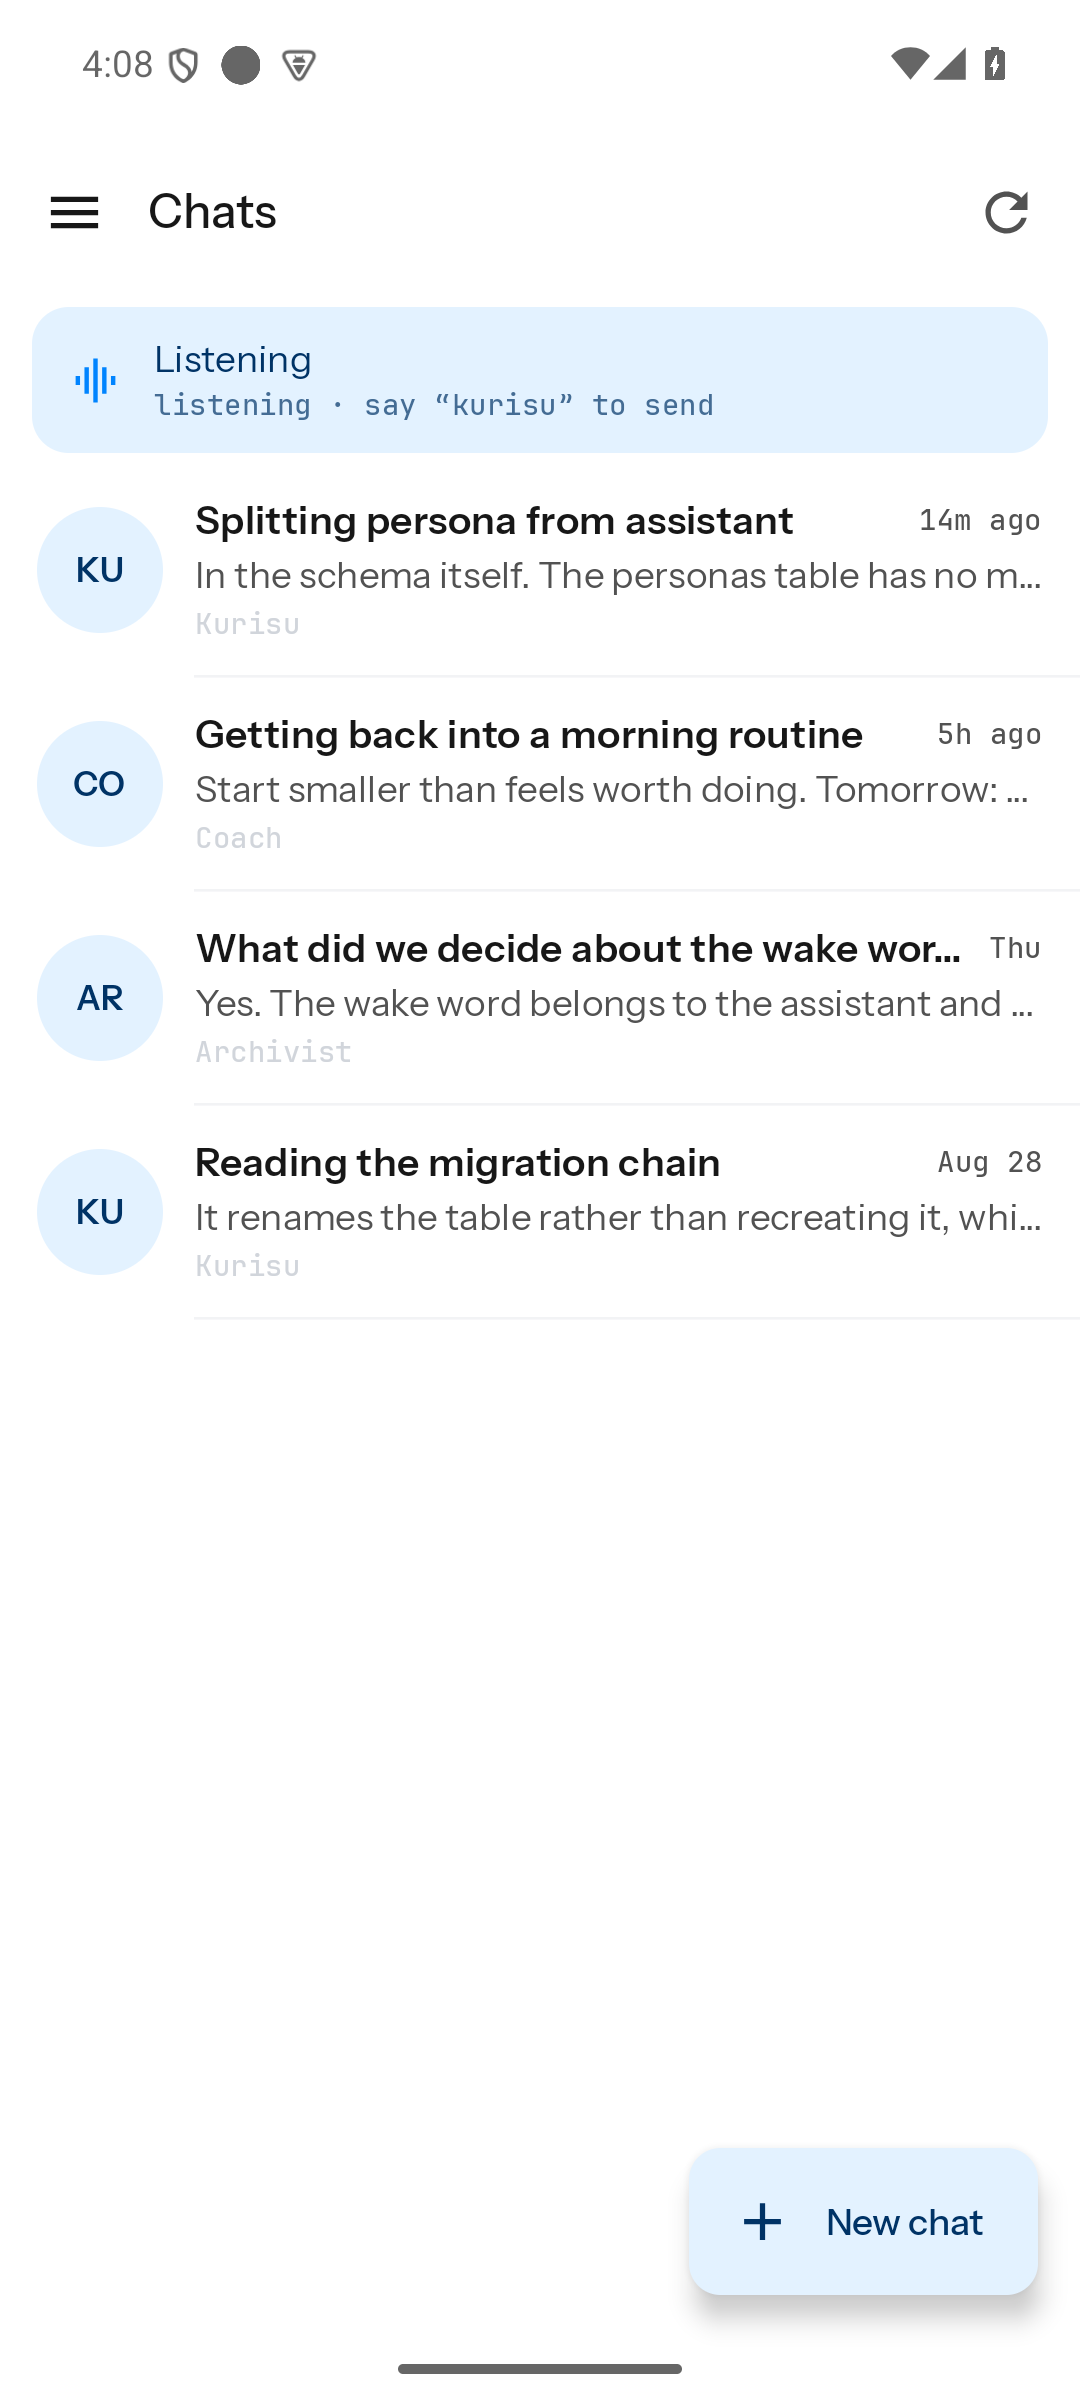
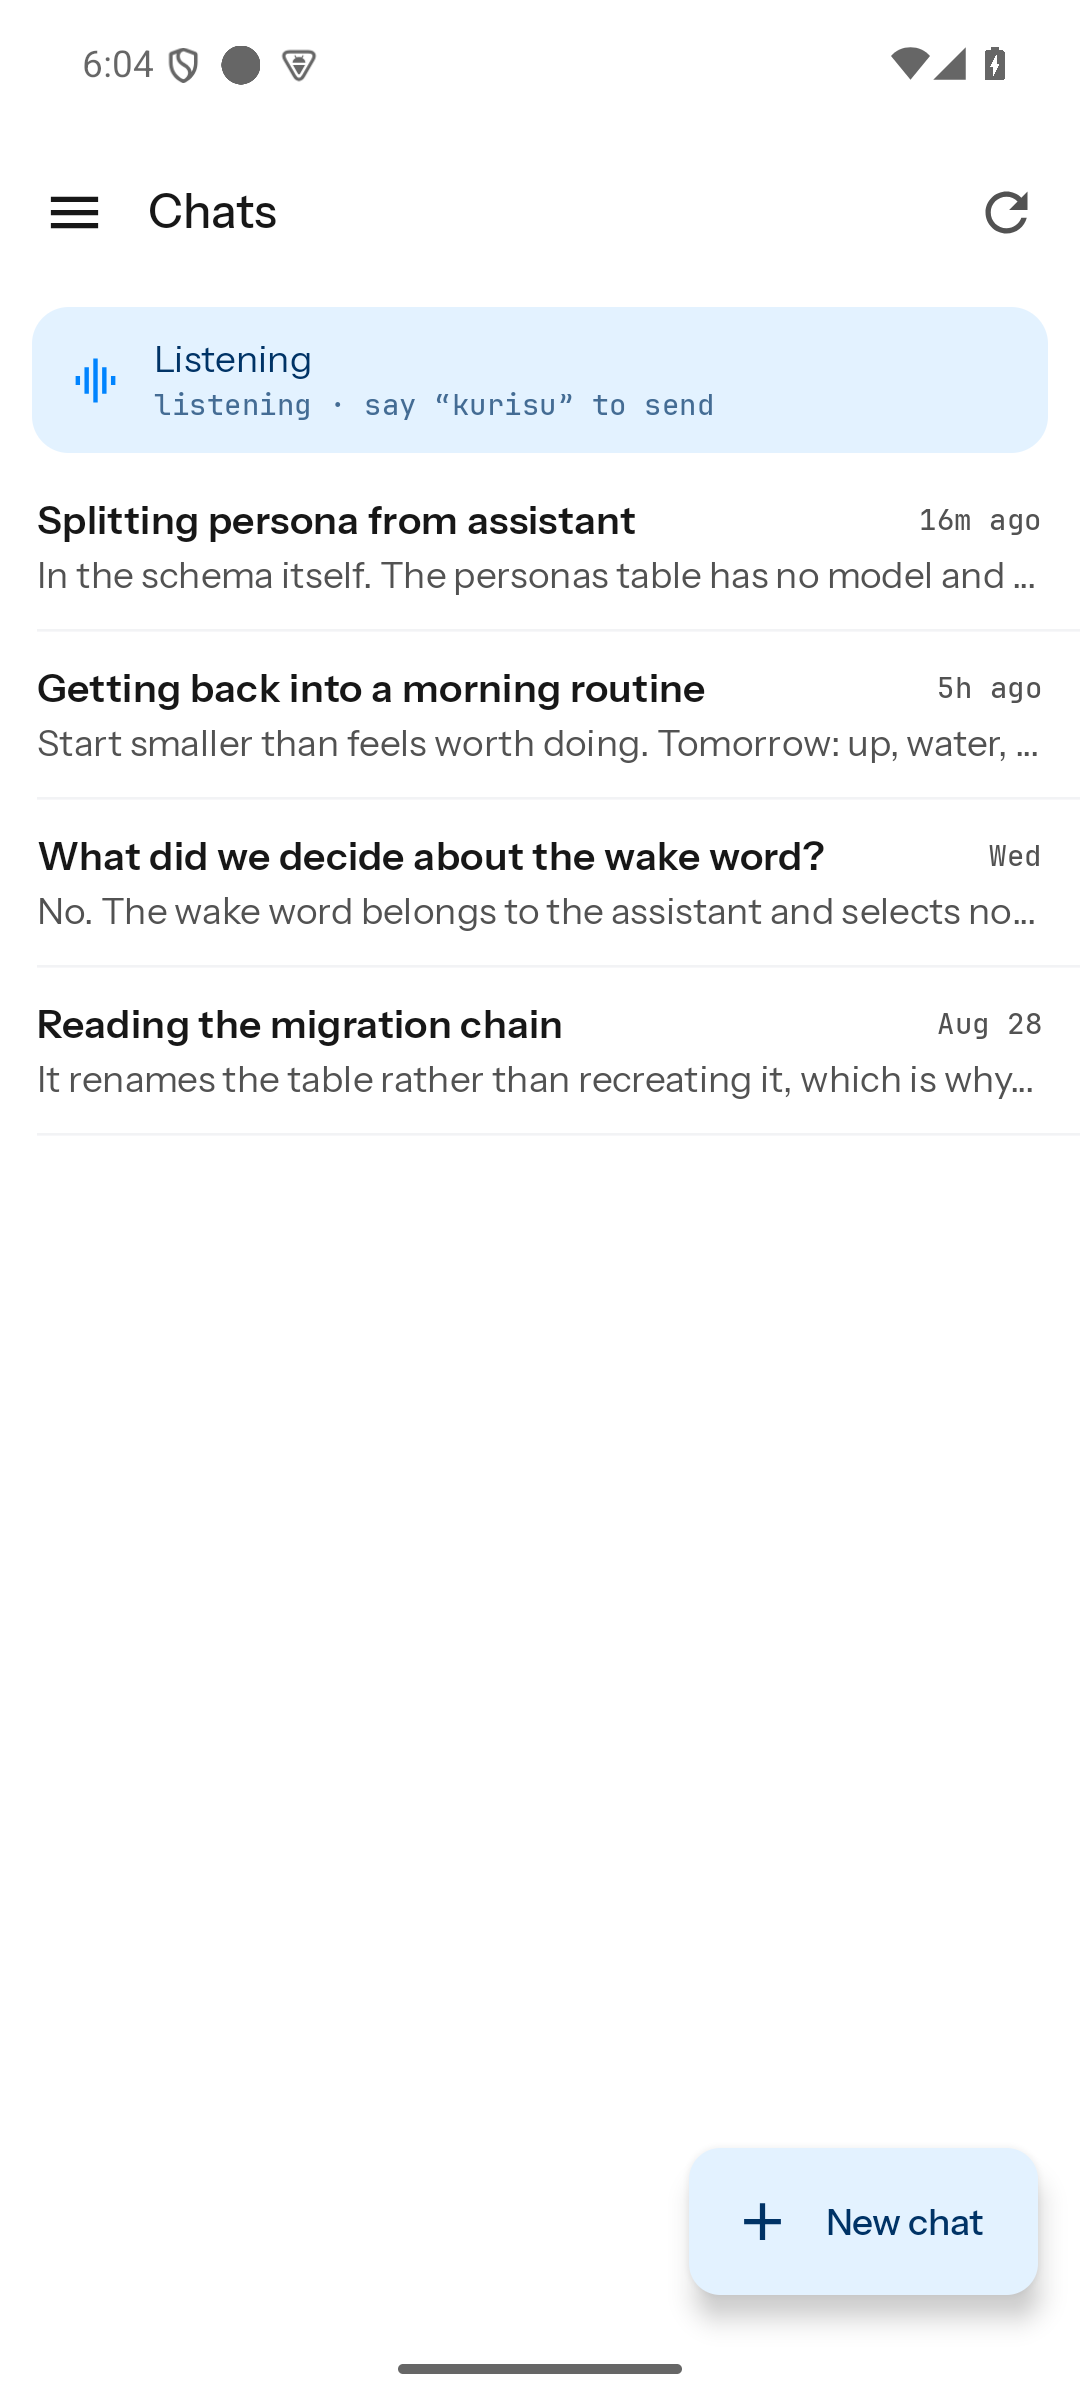
feat(mock): seed a conversation list, and retake the Chats screenshot
`screens.md` said the Chats picture is regenerated by pointing a client at the
standalone mock and sending a message. It never could be. The mock starts with
no conversations, and one message gives one row titled "Mock Conversation" whose
preview is the same "Hello from mock backend." every other row would carry — so
the four-row picture in the repo came from something that was never committed,
and there was no way to take it again after the row layout changed.

`MockBackendOptions.conversations` seeds finished conversations: a title, who
answered, a transcript, and how long ago the last message landed. They are built
through the same `createConversation` the chat path uses and pushed with the same
message fields, so `GET /conversations` and `GET /conversations/{id}` cannot tell
a seeded conversation from one that was chatted into — the user turns carry no
speaker, the assistant turns carry the persona, and the age is the seeded one
rather than the moment the process started, which is the whole point for a list
that orders and labels by recency.

`--scenario chats` is that list: four invented conversations aged minutes, hours,
days and over a week, so every branch of a relative-time label is exercised.
`cli.test.ts` already starts every scenario once, so a broken seed fails there.

The Chats screenshot is retaken against it. The regeneration instructions now
name the scenario, and their `cd clients/desktop` is corrected to the workspace
[…]

diff --git a/clients/apps/desktop/tests/mock/server.test.ts b/clients/apps/desktop/tests/mock/server.test.ts
@@ -258,6 +258,102 @@ describe('mock backend: conversations', () => {
   });
 });
 
+describe('mock backend: seeded conversations', () => {
+  /**
+   * A client that draws a list needs a list before anyone has chatted, and the
+   * documented way to regenerate the Chats screenshot could only ever produce
+   * one row (#194). A seed has to be indistinguishable from a conversation that
+   * was chatted into, or the picture documents a shape the app never serves.
+   */
+
+  let seeded: MockBackend;
+
+  beforeEach(async () => {
+    await mock.stop();
+    seeded = new MockBackend({
+      personas: [
+        { id: 1, name: 'Kurisu' },
+        { id: 2, name: 'Amadeus' },
+      ],
+      conversations: [
+        {
+          title: 'Older, and answered by the second persona',
+          persona: 'Amadeus',
+          agoMinutes: 3 * 24 * 60,
+          messages: [
+            { role: 'user', content: 'Ask something' },
+            { role: 'assistant', content: 'Answer something' },
+          ],
+        },
+        {
+          title: 'Newest',
+          persona: 'Kurisu',
+          agoMinutes: 5,
+          messages: [
+            { role: 'user', content: 'Recent question' },
+            { role: 'assistant', content: 'Recent answer' },
+          ],
+        },
+      ],
+    });
+    await seeded.start();
+    mock = seeded;
+  });
+
+  const seededGet = async (path: string) => {
+    const res = await fetch(`${seeded.url}${path}`);
+    return { status: res.status, body: await res.json() };
+  };
+
+  it('lists a seeded conversation exactly as it lists a chatted one', async () => {
+    const { body } = await seededGet('/conversations');
+    expect(body).toHaveLength(2);
+    expect(body[0]).toMatchObject({
+      title: 'Newest',
+      persona_id: 1,
+      message_count: 2,
+    });
+    expect(body[0].last_message).toMatchObject({
+      content: 'Recent answer',
+      role: 'assistant',
+    });
+  });
+
+  it('orders by the seeded age, newest first', async () => {
+    const { body } = await seededGet('/conversations');
+    expect(body.map((c: any) => c.title)).toEqual([
+      'Newest',
+      'Older, and answered by the second persona',
+    ]);
+
+    // The age is the point: a list that labels rows by recency has nothing to
+    // show if every seed is stamped with the moment the process started.
+    const ageMinutes = (iso: string) => (Date.now() - Date.parse(iso)) / 60_000;
+    expect(ageMinutes(body[0].last_message.created_at)).toBeGreaterThan(4);
+    expect(ageMinutes(body[0].last_message.created_at)).toBeLessThan(7);
+    expect(ageMinutes(body[1].updated_at)).toBeGreaterThan(3 * 24 * 60 - 2);
+  });
+
+  it('stamps the persona on the assistant turns only', async () => {
+    // A user message carries no speaker at all — the key is absent, not null,
+    // exactly as it is on a conversation that was chatted into.
+    const list = (await seededGet('/conversations')).body;
+    const { body } = await seededGet(`/conversations/${list[0].id}`);
+    expect(body.messages.map((m: any) => m.role)).toEqual(['user', 'assistant']);
+    expect(body.messages[0]).not.toHaveProperty('persona_id');
+    expect(body.messages[1]).toMatchObject({ persona_id: 1, persona: { name: 'Kurisu' } });
+  });
+
+  it('refuses a seed naming a persona that does not exist', () => {
+    expect(() => new MockBackend({
+      personas: [{ id: 1, name: 'Kurisu' }],
+      conversations: [
+        { title: 'Nobody answers this', persona: 'Nobody', agoMinutes: 1, messages: [] },
+      ],
+    })).toThrow(/no persona named "Nobody"/);
+  });
+});
+
 describe('mock backend: streaming', () => {
   it('sets persona fields on assistant chunks only, and tool metadata on tool chunks', async () => {
     mock.setStream({

diff --git a/clients/apps/desktop/tests/mock/scenarios.ts b/clients/apps/desktop/tests/mock/scenarios.ts
@@ -7,7 +7,7 @@
  * changes shape, change the scenario that mirrors it.
  */
 
-import type { MockBackend, MockBackendOptions, StreamScript } from './server';
+import type { MockBackend, MockBackendOptions, MockConversationSeed, StreamScript } from './server';
 
 export interface Scenario {
   /** One line for `--list`. */
@@ -30,10 +30,78 @@ const SHORT_REPLY: StreamScript = {
   ],
 };
 
+/**
+ * A Chats list, for the screenshot in `clients/android/docs/screens.md` and for
+ * anyone driving a client that has to draw a list before it has one (#194).
+ *
+ * Invented, like every other fixture here: these end up in a public repo, so no
+ * title, question or answer below comes from a real install. The ages are
+ * chosen to exercise every branch of a relative-time label — minutes, hours,
+ * days, and old enough to fall back to a date.
+ */
+const CHATS: MockConversationSeed[] = [
+  {
+    title: 'Splitting persona from assistant',
+    persona: 'Kurisu',
+    agoMinutes: 14,
+    messages: [
+      { role: 'user', content: 'Where does the split actually live?' },
+      {
+        role: 'assistant',
+        content:
+          'In the schema itself. The personas table has no model and no tools, so a persona '
+          + 'cannot change what the assistant is able to do — only how it sounds.',
+      },
+    ],
+  },
+  {
+    title: 'Getting back into a morning routine',
+    persona: 'Amadeus',
+    agoMinutes: 5 * 60,
+    messages: [
+      { role: 'user', content: 'I keep sleeping through the alarm.' },
+      {
+        role: 'assistant',
+        content: 'Start smaller than feels worth doing. Tomorrow: up, water, ten minutes outside. Nothing else.',
+      },
+    ],
+  },
+  {
+    title: 'What did we decide about the wake word?',
+    persona: 'Kurisu',
+    agoMinutes: 4 * 24 * 60,
+    messages: [
+      { role: 'user', content: 'Does each persona get its own?' },
+      {
+        role: 'assistant',
+        content:
+          'No. The wake word belongs to the assistant and selects nobody — whoever the '
+          + 'conversation is bound to answers it.',
+      },
+    ],
+  },
+  {
+    title: 'Reading the migration chain',
+    persona: 'Kurisu',
+    agoMinutes: 9 * 24 * 60,
+    messages: [
+      { role: 'user', content: 'Does the persona split drop the old table?' },
+      {
+        role: 'assistant',
+        content: 'It renames the table rather than recreating it, which is why the ids survive the upgrade.',
+      },
+    ],
+  },
+];
+
 export const SCENARIOS: Record<string, Scenario> = {
   default: {
     description: 'Two personas (Kurisu answers), a model chosen, a short streamed reply.',
     options: { personas: [KURISU, AMADEUS], stream: SHORT_REPLY },
+  },
+  chats: {
+    description: 'The default, plus four conversations of different ages — a list to look at.',
+    options: { personas: [KURISU, AMADEUS], stream: SHORT_REPLY, conversations: CHATS },
   },
   'tool-call': {
     // streaming.spec.ts: "assistant text and tool output both render when a tool call interrupts"

diff --git a/clients/apps/desktop/tests/mock/server.ts b/clients/apps/desktop/tests/mock/server.ts
@@ -136,8 +136,25 @@ export interface MockDriveEntry {
   isDir?: boolean;
 }
 
+/**
+ * A conversation to start the mock with, so a client has a list to show before
+ * anyone has chatted into it (#194).
+ *
+ * `agoMinutes` is when the LAST message landed — the only age a list orders and
+ * labels by. Earlier messages are spaced a minute apart behind it.
+ */
+export interface MockConversationSeed {
+  title: string;
+  /** Who answers it, by persona name. Omitted leaves the conversation unbound. */
+  persona?: string;
+  agoMinutes: number;
+  /** Oldest first. An assistant message is attributed to `persona`. */
+  messages: Array<{ role: 'user' | 'assistant'; content: string }>;
+}
+
 export interface MockBackendOptions {
   personas?: MockPersona[];
+  conversations?: MockConversationSeed[];
   drive?: MockDriveEntry[];
   driveQuotaBytes?: number;
   assistant?: MockAssistant;
@@ -299,6 +316,7 @@ export class MockBackend {
 
     if (opts.driveQuotaBytes !== undefined) this.driveQuotaBytes = opts.driveQuotaBytes;
     for (const entry of opts.drive ?? []) this.seedDriveEntry(entry);
+    for (const seed of opts.conversations ?? []) this.seedConversation(seed);
 
     this.httpServer = http.createServer((req, res) => this.handleHttp(req, res));
     this.wss = new WebSocketServer({ noServer: true });
@@ -610,6 +628,42 @@ export class MockBackend {
     };
     this.conversations.set(conv.id, conv);
     return conv;
+  }
+
+  /**
+   * Put a finished conversation in the store, shaped exactly the way the chat
+   * path shapes one — same message fields, same `persona_id` on the assistant
+   * turns only — so nothing reading `GET /conversations` can tell a seeded
+   * conversation from one that was chatted into.
+   */
+  private seedConversation(seed: MockConversationSeed) {
+    const persona = seed.persona
+      ? this.personas.find((p) => p.name === seed.persona)
+      : undefined;
+    if (seed.persona !== undefined && !persona) {
+      throw new Error(`seeded conversation "${seed.title}": no persona named "${seed.persona}"`);
+    }
+    const conv = this.createConversation(persona?.id ?? null, seed.title);
+    const step = 60_000;
+    const last = Date.now() - seed.agoMinutes * step;
+    const first = last - Math.max(0, seed.messages.length - 1) * step;
+    seed.messages.forEach((m, i) => {
+      conv.messages.push({
+        id: this.nextMessageId++,
+        role: m.role,
+        content: m.content,
+        thinking: null,
+        persona_id: m.role === 'assistant' ? persona?.id ?? null : null,
+        name: null,
+        tool_args: null,
+        tool_status: null,
+        created_at: new Date(first + i * step).toISOString(),
+      });
+    });
+    // Overwrite what createConversation stamped: the point of a seed is that it
+    // is older than the process that served it.
+    conv.created_at = new Date(first).toISOString();
+    conv.updated_at = new Date(last).toISOString();
   }
 
   private async handleHttp(req: http.IncomingMessage, res: http.ServerResponse) {

diff --git a/clients/android/docs/screens.md b/clients/android/docs/screens.md
@@ -76,15 +76,24 @@ editor. "Calls you" is what the persona calls *you*, not a display name for the 
 ## Regenerating these
 
 The app is driven against the **standalone mock backend** from the desktop package — never a
-deployed one (the rule in `CLAUDE.md`). Its scenarios are the transcripts: `tool-call` gives a tool
-rail, `sub-agent` a delegated step, `handoff` two speakers; see
-[`../../desktop/docs/testing.md`](../../desktop/docs/testing.md#the-standalone-mock) for the list.
+deployed one (the rule in `CLAUDE.md`). Its scenarios are the fixtures: `chats` starts with a list
+of conversations already in it, `tool-call` gives a tool rail, `sub-agent` a delegated step,
+`handoff` two speakers; see
+[`../../apps/desktop/docs/testing.md`](../../apps/desktop/docs/testing.md#the-standalone-mock) for
+the list.
+
+**The Chats picture needs `--scenario chats`.** Every other scenario starts with no conversations at
+all, and sending a message gives one row titled "Mock Conversation" — one empty-looking list, not
+the one above (#194).
 
 ```bash
-# 1. The mock, reachable from the emulator (10.0.2.2 is its route to the host)
-cd clients/desktop && npm ci && npm run mock:backend -- --host 0.0.0.0 --port 15597 --scenario tool-call
+# 1. The mock, reachable from the emulator (10.0.2.2 is its route to the host).
+#    Dependencies install at clients/ and nowhere else, so npm ci runs there.
+cd clients && npm ci
+cd apps/desktop && npm run mock:backend -- --host 0.0.0.0 --port 15597 --scenario chats
 
-# 2. Any username and password sign in; send a message to produce the transcript.
+# 2. Any username and password sign in. For a transcript, send a message; for the
+#    Chats list, the scenario has already put one there.
 
 # 3. A headless emulator
 emulator -avd <avd> -no-window -no-audio -no-boot-anim -gpu swiftshader_indirect

diff --git a/clients/apps/desktop/docs/testing.md b/clients/apps/desktop/docs/testing.md
@@ -39,6 +39,7 @@ specs:
 | Scenario | State |
 | --- | --- |
 | `default` | Two personas (Kurisu answers, Amadeus available), a model chosen, a short streamed reply |
+| `chats` | The default, plus four seeded conversations of different ages — a list to look at before anything is sent (#194) |
 | `tool-call` | Assistant text interrupted by a `lookup` tool result, then the answer |
 | `sub-agent` | A step delegated to a sub-agent mid-answer — the `sub-agent` tag and duration |
 | `handoff` | Kurisu starts the answer, Amadeus finishes it: two bubbles, two speakers |
